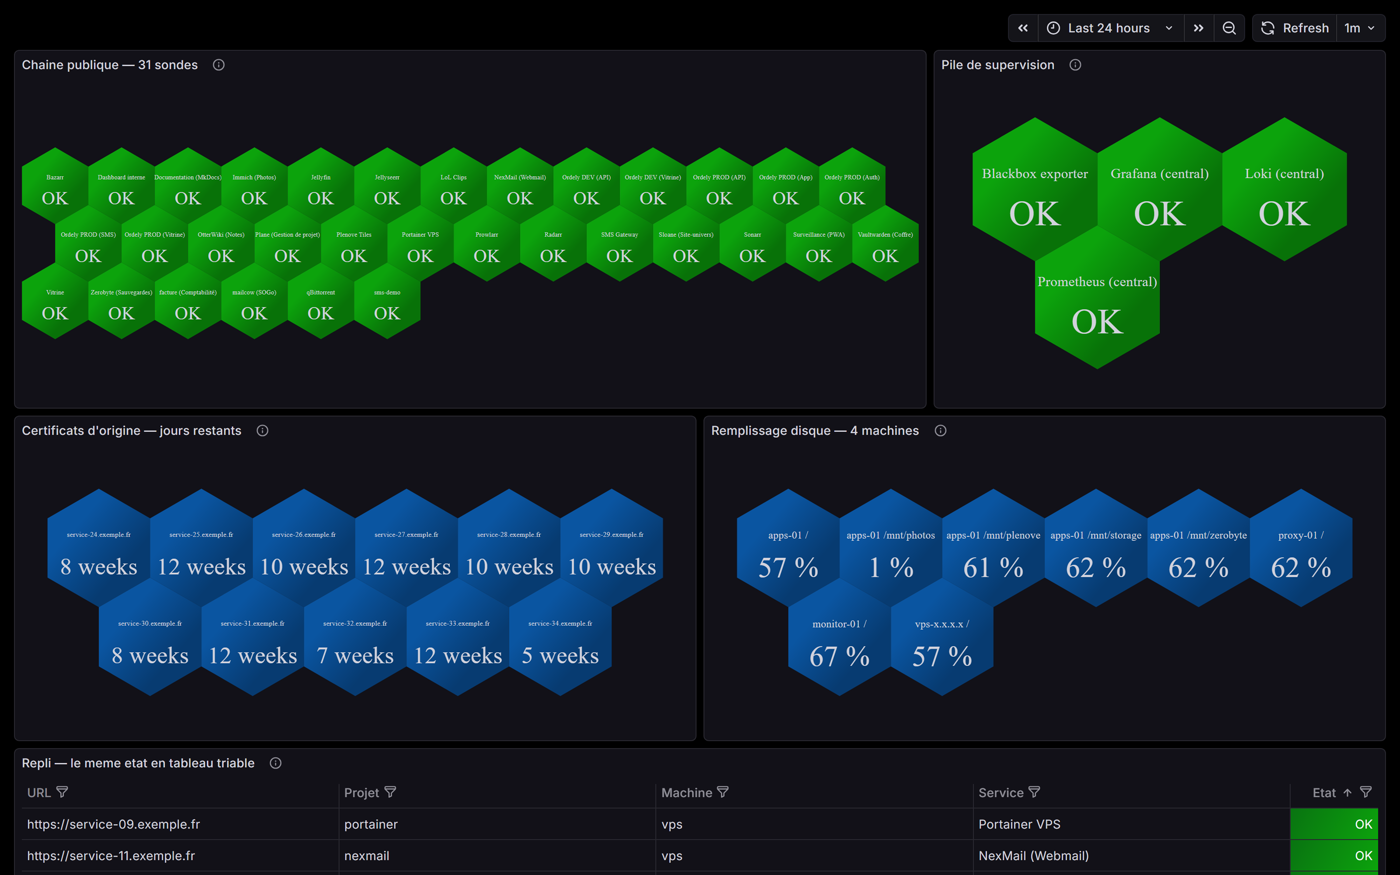
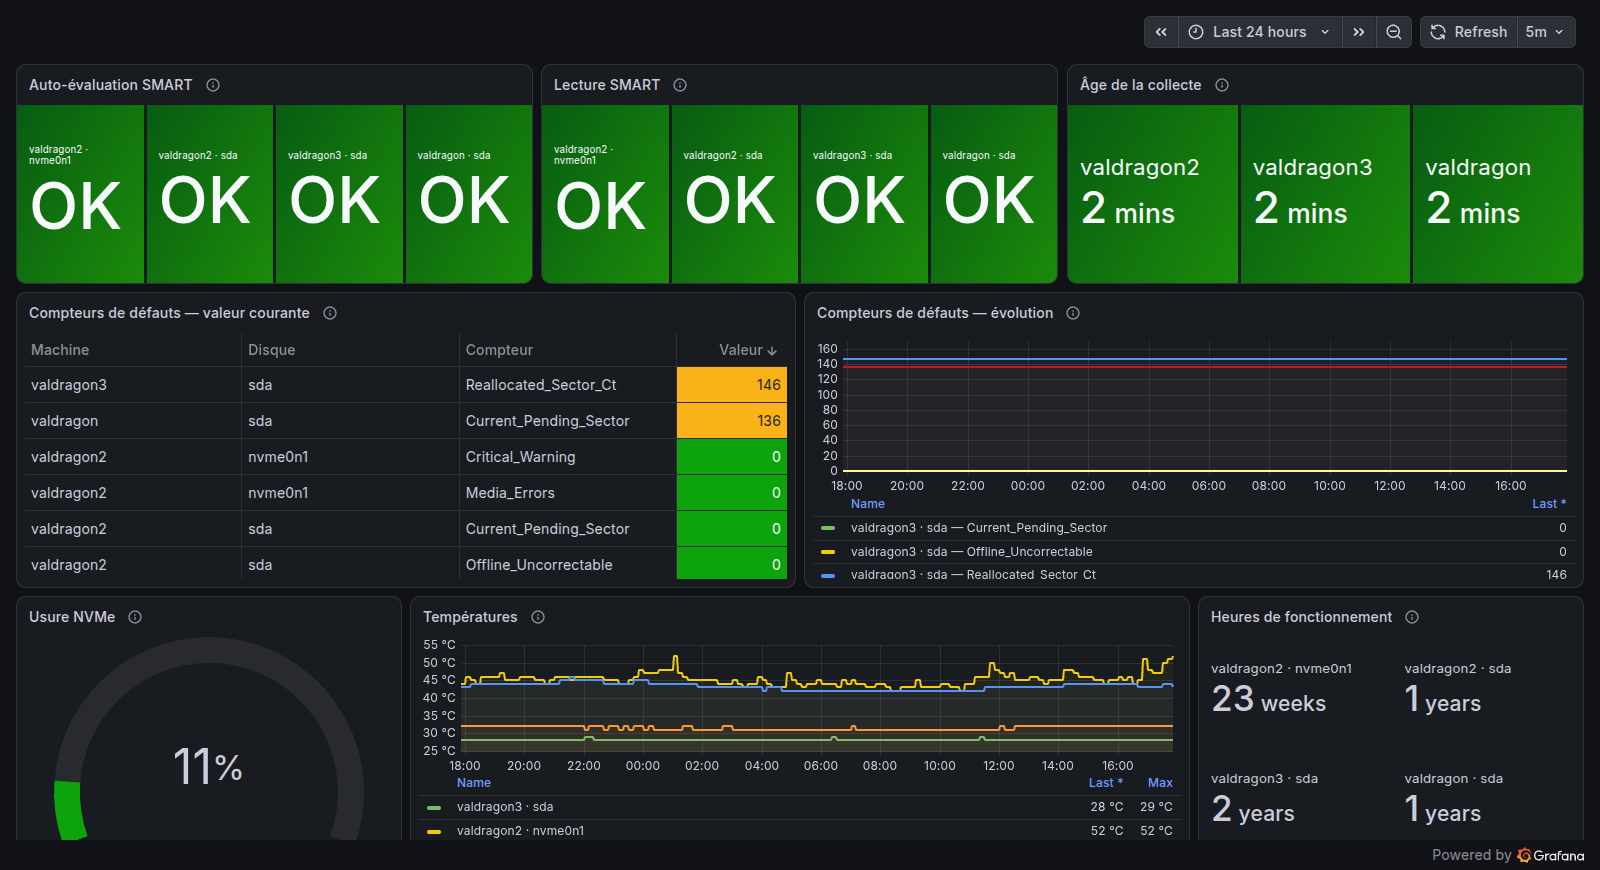
Chiffres au 15/10, statuts réels et captures reprises
- Ordely (requêtes agrégées sur la base de production, mêmes définitions
  que la fiche marketing) : 140+ clients par SMS, ~170 commandes/semaine,
  3 clients sur 4 recommandent, 46 réguliers, 1 SMS sur 6 hors horaires
- Messagerie SMS : « prête, en déploiement chez Akhilleus » — la base ne
  contient encore que des données de test ; ~1 200 adhérents = cible
- Le Coucou : 80 exercices réalisés en trois semaines, 22 avis positifs
  sur 23 (hors envois de test) ; capture de sa page publique
- Plenove retiré des produits (arrêté depuis le 16/09), gardé en
  réalisation « en pause »
- Captures reprises : page publique d'Ordely, Grafana « Disques — santé
  SMART » à la place de la vue polystat, vignette « Ce site »

diff --git a/src/lib/projectsData.ts b/src/lib/projectsData.ts
@@ -79,9 +79,9 @@ export const projectsData: ProjectItem[] = [
       audience: 'Boulangeries et commerces de bouche',
       status: 'En production depuis août 2026',
       metrics: [
-        { value: '130+', label: 'clients commandent par SMS' },
+        { value: '140+', label: 'clients commandent par SMS' },
         { value: '~170', label: 'commandes gérées par semaine' },
-        { value: '2 sur 3', label: 'clients repassent commande' },
+        { value: '3 sur 4', label: 'clients repassent commande' },
       ],
     },
     size: 'large',
@@ -114,7 +114,7 @@ export const projectsData: ProjectItem[] = [
     challenges:
       "Comprendre des SMS écrits à la va-vite, sans ponctuation ni orthographe fiable. Isoler les données de chaque commerce sur une plateforme partagée. Et faire remonter la vraie adresse IP du client à travers deux couches de reverse-proxy — un réglage faux et c'est le journal d'audit, la limitation de débit et l'IP de consentement RGPD qui deviennent faux avec lui.",
     results:
-      "En production depuis août 2026 dans une boulangerie familiale de l'Aube : plus de 130 clients y commandent par SMS, environ 170 commandes par semaine, 43 clients réguliers sans ressaisie, et près d'un SMS sur six reçu avant 7 h ou après 20 h — des commandes qui, avant, n'arrivaient pas. Le dépôt compte plus de 1 300 commits et dix chaînes d'intégration continue : tests et audit des dépendances, construction des images, déploiement avec sauvegarde de la base avant migration, contrôle de santé, maintenance, versionnage sémantique, notes de mise à jour et retour arrière.",
+      "En production depuis août 2026 dans une boulangerie familiale de l'Aube. Au 15 octobre 2026 : plus de 140 clients y commandent par SMS, environ 170 commandes par semaine, plus de trois clients sur quatre ont déjà recommandé, 46 clients réguliers sont servis sans ressaisie, et près d'un SMS sur six arrive avant 7 h ou après 20 h — des commandes qui, avant, n'arrivaient pas. Le dépôt compte plus de 1 300 commits et dix chaînes d'intégration continue : tests et audit des dépendances, construction des images, déploiement avec sauvegarde de la base avant migration, contrôle de santé, maintenance, versionnage sémantique, notes de mise à jour et retour arrière.",
     duration: '2024 — en cours',
     image: '/images/projects/ordely.png',
     gallery: [
@@ -136,14 +136,14 @@ export const projectsData: ProjectItem[] = [
       "Diffusion de SMS pour les associations, depuis leurs propres téléphones et cartes SIM. Écrire à tous les adhérents d'un coup, ou — bien plus souvent — à un groupe de dix à trente personnes.",
     product: {
       audience: 'Associations et structures médico-sociales',
-      status: 'En service chez Akhilleus · proposée à d’autres structures',
+      status: 'Prête · déploiement en cours chez Akhilleus',
       metrics: [
-        { value: '~1 200', label: 'adhérents joignables' },
+        { value: '~1 200', label: 'adhérents visés par le premier déploiement' },
       ],
     },
     size: 'medium',
     icon: Send,
-    badges: ['Production', 'Produit'],
+    badges: ['Produit', 'En déploiement'],
     technologies: ['Next.js', 'PostgreSQL', 'Android'],
     stack: ['Next.js', 'TypeScript', 'PostgreSQL', 'Docker', 'Passerelle SMS privée', 'Application compagnon Android'],
     fullDescription:
@@ -158,7 +158,7 @@ export const projectsData: ProjectItem[] = [
     challenges:
       "Les deux usages tirent dans des sens opposés : une campagne à 1 200 destinataires exige débit maîtrisé et reprise sur incident, alors qu'un message à quinze personnes doit partir tout de suite. Et Android bride en silence les envois au-delà de trente messages par demi-heure — l'ordre est accepté, le téléphone attend dans un placard qu'on tape sur son écran. La limite est documentée, et levée une fois pour toutes à la mise en service.",
     results:
-      "En service à la Maison Sport-Santé Akhilleus pour ses quelque 1 200 adhérents. La même solution est proposée à d’autres associations, en hébergement géré ou installée sur leur propre serveur.",
+      "Développée et éprouvée de bout en bout — campagnes, accusés de réception, réponses entrantes —, elle est en cours de déploiement à la Maison Sport-Santé Akhilleus, pour ses quelque 1 200 adhérents. La même solution est proposée à d’autres associations, en hébergement géré ou installée sur leur propre serveur.",
     duration: '2026 — en cours',
   },
   {
@@ -171,6 +171,10 @@ export const projectsData: ProjectItem[] = [
     product: {
       audience: 'Maisons sport-santé et leurs adhérents',
       status: 'En service depuis septembre 2026',
+      metrics: [
+        { value: '80', label: 'exercices réalisés en trois semaines' },
+        { value: '22 sur 23', label: 'avis laissés sont positifs' },
+      ],
     },
     size: 'small',
     icon: Bell,
@@ -188,7 +192,8 @@ export const projectsData: ProjectItem[] = [
     ],
     challenges:
       "Les notifications web passent par le service de chaque fabricant de navigateur — Google, Apple, Mozilla — chacun avec ses règles. Le planificateur doit tenir la journée de chaque inscrit sans jamais doubler un envoi ni en perdre un au redémarrage.",
-    results: 'Mise en service le 25 septembre 2026 pour les adhérents d’Akhilleus.',
+    results: 'Mise en service le 25 septembre 2026 pour les adhérents d’Akhilleus. En trois semaines, 80 exercices ont été réalisés à la réception d’un coucou, et 22 des 23 avis laissés après un exercice sont positifs.',
+    image: '/images/projects/coucou.png',
     duration: '2026 — en cours',
   },
   {
@@ -198,14 +203,9 @@ export const projectsData: ProjectItem[] = [
     result: 'Le plein le plus malin, détour compris',
     description:
       "Application mobile qui croise les prix officiels des carburants, le véhicule et le trajet réel pour indiquer où faire le plein au meilleur coût total — détour compris.",
-    product: {
-      audience: 'Automobilistes',
-      status: 'Application Android, abonnement via Google Play',
-      metrics: [{ value: '11 000+', label: 'stations suivies en France' }],
-    },
     size: 'small',
     icon: Fuel,
-    badges: ['Produit', 'Mobile'],
+    badges: ['Mobile', 'En pause'],
     technologies: ['Flutter', 'FastAPI', 'OpenStreetMap'],
     stack: ['Flutter', 'Dart', 'Python', 'FastAPI', 'OSRM', 'Nominatim', 'OpenStreetMap', 'Google Play Billing', 'Docker'],
     fullDescription:
@@ -220,7 +220,7 @@ export const projectsData: ProjectItem[] = [
     ],
     challenges:
       "Calculer des itinéraires réels pour chaque recherche sans payer un service cartographique au volume : le moteur d'itinéraires et le géocodage tournent sur mes serveurs, à partir des données OpenStreetMap de la France entière.",
-    results: 'API publique en service ; application Android avec abonnement intégré.',
+    results: "Application Android aboutie, avec abonnement intégré. Le projet est en pause depuis septembre 2026 : son moteur d'itinéraires, gourmand en mémoire, a été arrêté pour laisser la place aux services en production sur la même machine.",
     duration: '2026 — en cours',
   },
   {
@@ -508,7 +508,7 @@ export const projectsData: ProjectItem[] = [
     result: 'Fusionner suffit à mettre en ligne',
     description:
       "Ce site : rendu 3D en arrière-plan, et une chaîne de déploiement continue qui va de la fusion à la vérification publique.",
-    size: 'medium',
+    size: 'small',
     icon: Globe,
     badges: ['En ligne'],
     technologies: ['Next.js', 'React Three Fiber', 'Tailwind'],

diff --git a/src/components/Experience.tsx b/src/components/Experience.tsx
@@ -20,7 +20,7 @@ const Experience = () => {
         "Création et exploitation de mes propres logiciels — Ordely en tête — et conception, déploiement et hébergement d'applications pour des clients, de la première ligne de code à la supervision en production.",
       achievements: [
         'Ordely : SaaS de commande par SMS, en production chez une boulangerie depuis août 2026',
-        'Messagerie SMS et application Le Coucou pour la Maison Sport-Santé Akhilleus',
+        'Application Le Coucou et messagerie SMS (en déploiement) pour la Maison Sport-Santé Akhilleus',
         'Dix chaînes CI/CD : tests, migrations, déploiement et retour arrière',
         'Infrastructure de cinq machines : supervision, sauvegardes vérifiées, documentation',
       ],

diff --git a/src/components/Products.tsx b/src/components/Products.tsx
@@ -78,7 +78,7 @@ const Products = () => {
               </dl>
             )}
             <p className="mt-3 text-xs text-ink-500">
-              Mesures chez le commerce pilote, une boulangerie familiale de l&apos;Aube.
+              Mesures au 15 octobre 2026 chez le commerce pilote, une boulangerie familiale de l&apos;Aube.
             </p>
 
             <div className="mt-8 lg:mt-auto lg:pt-8 flex flex-col sm:flex-row gap-3">
@@ -119,7 +119,7 @@ const Products = () => {
         </article>
 
         {/* Les autres produits */}
-        <ul className="mt-3 grid gap-3 md:grid-cols-3">
+        <ul className="mt-3 grid gap-3 md:grid-cols-2">
           {others.map((p) => {
             const Icon = p.icon;
             return (

diff --git a/src/components/Hero.tsx b/src/components/Hero.tsx
@@ -12,11 +12,11 @@ const STACK = ['Linux', 'Docker', 'Python', 'Next.js', 'Nginx', 'CI/CD', 'Postgr
 const PROOF = [
   {
     fact: 'Ordely, en production',
-    detail: '130+ clients d’une boulangerie y commandent par SMS, ~170 commandes par semaine',
+    detail: '140+ clients d’une boulangerie y commandent par SMS, ~170 commandes par semaine',
   },
   {
-    fact: '3 logiciels utilisés par des clients',
-    detail: 'Ordely, une messagerie SMS pour associations et Le Coucou — plus Plenove sur Android',
+    fact: 'Des logiciels utilisés chaque jour',
+    detail: 'Ordely et Le Coucou en service ; une messagerie SMS pour associations en déploiement',
   },
   {
     fact: '10 chaînes CI/CD',

diff --git a/src/components/ProjectsBento.tsx b/src/components/ProjectsBento.tsx
@@ -26,12 +26,13 @@ const spanFor = (size: ProjectItem['size']) => {
 const ORDER = [
   'homelab',
   'mcp-infra',
-  'vitrine',
   'sauvegardes',
   'openproject-reskin',
   'dashboard-patrimoine',
+  'vitrine',
   'media-stack',
   'mailcow',
+  'plenove',
   'table-virtuelle-mtg',
   'centreon-plugin',
 ];
